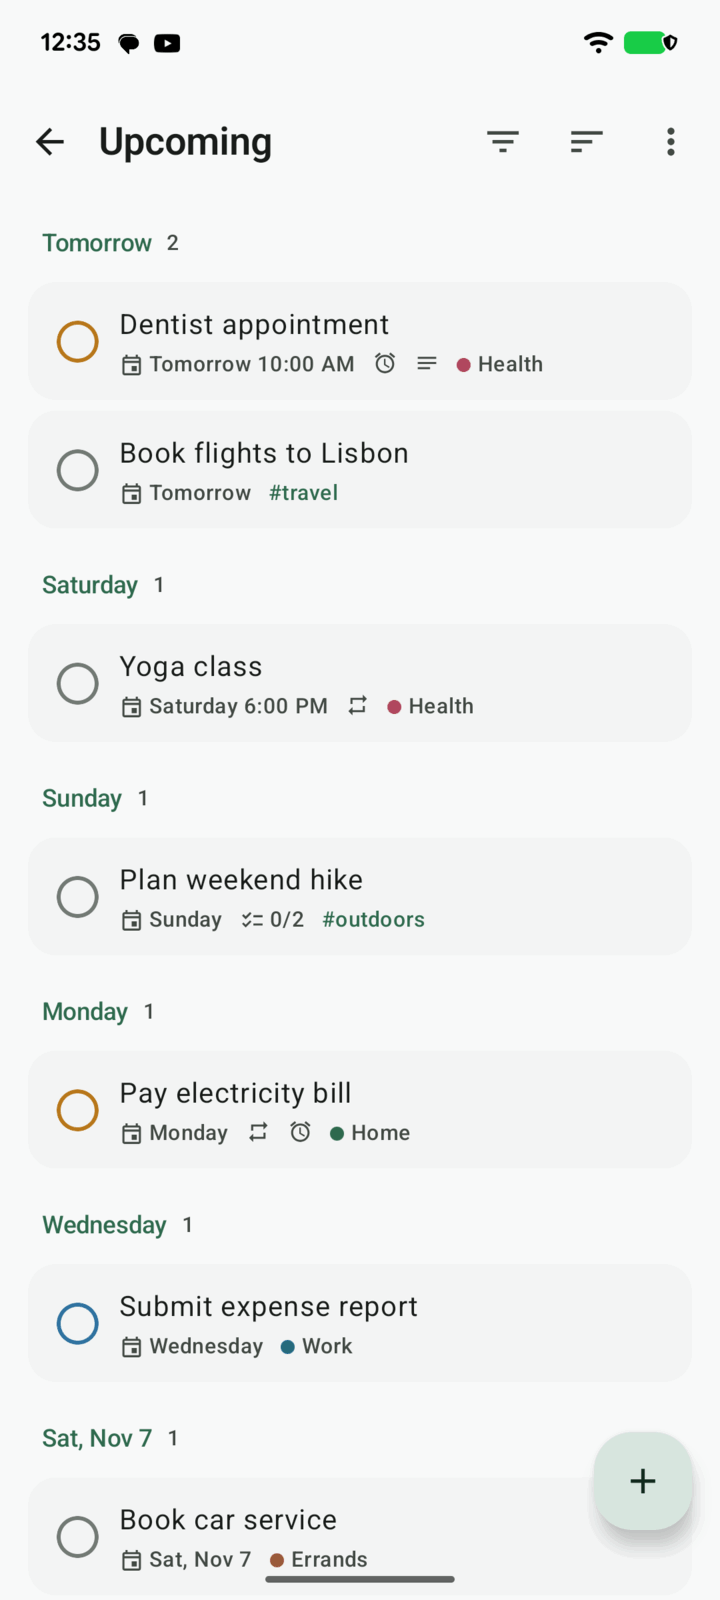
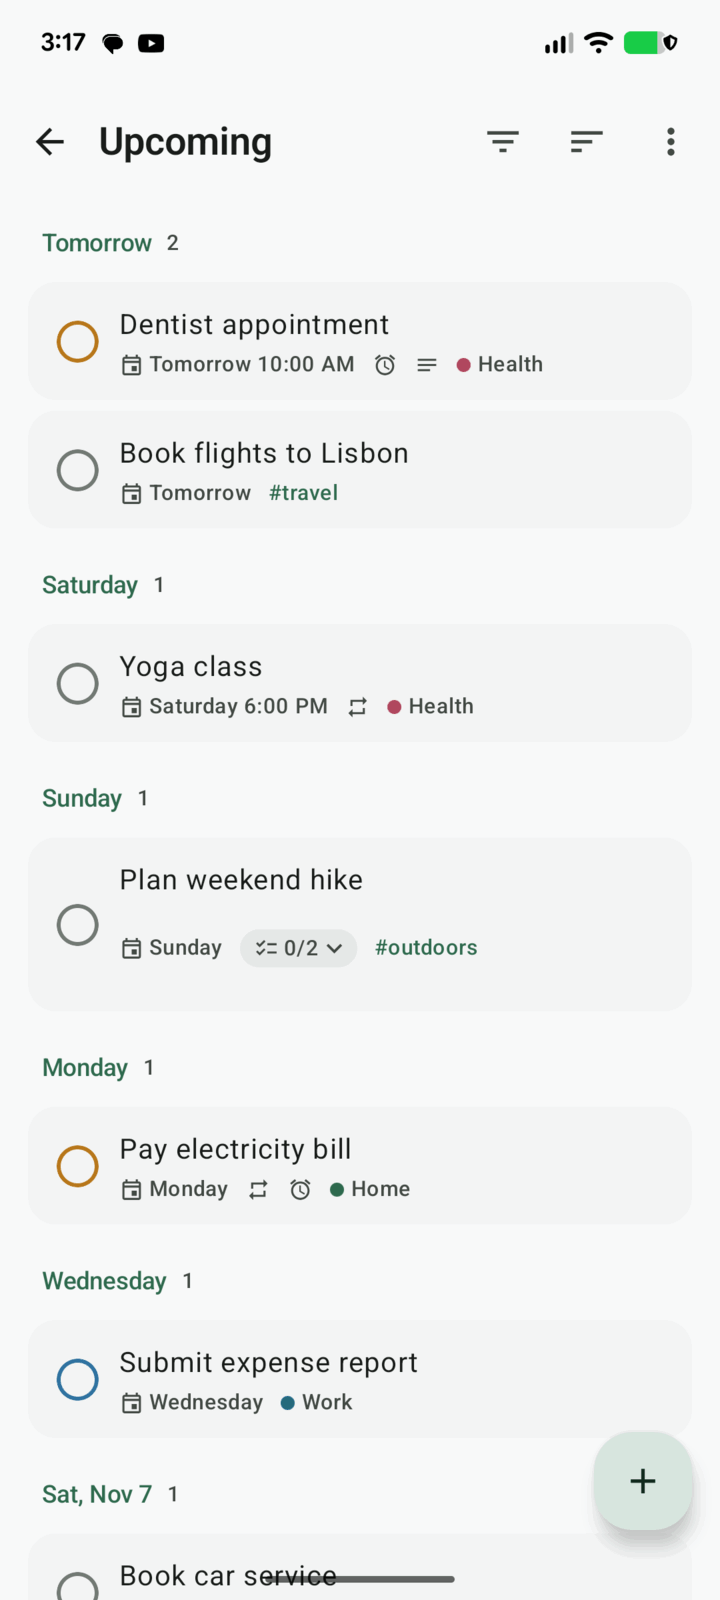
README, changelog and testing report for plans, subtasks, streaks, reset time and update check; new screenshots

diff --git a/docs/TESTING.md b/docs/TESTING.md
@@ -4,8 +4,8 @@
 
 | Suite | Command | Where | Result (2026-10-29) |
 | --- | --- | --- | --- |
-| JVM unit tests | `./gradlew :app:testDebugUnitTest` | `app/src/test` | 212 passed, 0 failed |
-| Instrumented tests | `./gradlew :app:connectedDebugAndroidTest` | `app/src/androidTest` | 42 passed, 0 failed (Pixel 6, Android 17) |
+| JVM unit tests | `./gradlew :app:testDebugUnitTest` | `app/src/test` | 268 passed, 0 failed |
+| Instrumented tests | `./gradlew :app:connectedDebugAndroidTest` | `app/src/androidTest` | 53 passed, 0 failed (Pixel 6, Android 17) |
 | Android Lint | `./gradlew :app:lintDebug` | — | 0 errors, 22 warnings (unused resources, plural suggestions, obsolete SDK checks) |
 | Offline check | `./gradlew :app:verifyOfflineManifestRelease` | build | passes: only `INTERNET` (update check); no network-state, Wi-Fi-state, broad-storage or advertising-ID permission |
 | Release verification | `scripts/verify-apk.sh` | CI | signature v2+, not debug-signed, application id, version, no forbidden permission |
@@ -72,6 +72,17 @@ something deleted moments earlier (database foreign-key violation); undo of a sh
 focus timer on a deleted task; a double tap completing two occurrences of a repeating task in the app; long-overdue
 repeating tasks not catching up past ~27 years; negative amounts losing their minus sign; navigation labels breaking
 mid-word at large font sizes.
+
+### New features, on the Pixel 6
+
+| Feature | Result |
+| --- | --- |
+| Database upgrade 1 → 2 on the phone's existing data | Upgraded in place; data kept (also covered by `MigrationTest`) |
+| Plans (this week / month / year) | Today Plans section, Plans view, editor “Plan for”, Quick Add “sometime next week” |
+| Day reset time 4:00 AM, phone time 1:59 AM (time zone switched briefly) | Today showed the previous day; back to Midnight showed the new day |
+| Streaks | Rows, editor history dots, Today routine nudge, routine widget, Insights |
+| Subtasks | Expand in Today and tick from the list; editor section, add several in a row |
+| Update check | Consent dialog; automatic check and “Check now” report “no release yet” (none published); popup and Download verified against another public repository's latest release in a temporary test build |
 
 ## Manual QA on a real device
 

diff --git a/CHANGELOG.md b/CHANGELOG.md
@@ -16,6 +16,22 @@ named `vMAJOR.MINOR.BUILD` (see [docs/RELEASING.md](docs/RELEASING.md)); the rel
   `api.github.com` at most once a day, nothing about you or your tasks is sent). The build and release checks still
   reject network-state, Wi-Fi-state, broad storage and advertising-ID permissions.
 
+## Unreleased
+
+### Added
+- Plans: tasks for a week, month or year, with a Plans view and a Today section (database version 2, migrated
+  automatically).
+- Subtasks inside every task: a Subtasks section in the editor and expandable subtasks in every list.
+- Streaks for routines and repeating tasks on Today, task rows, the editor, the routine widget and Insights.
+- Quick Add understands repeats (“every monday and thursday”, “every 3 days”, “monthly”) and plans (“this month”).
+- New day starts at: choose when “today” rolls over.
+
+### Fixed
+- Crashes when acting on a task, list or routine that had just been deleted (stale widgets, open screens, undo).
+- A fast double tap on a repeating task in the app could complete two occurrences.
+- Long-overdue repeating tasks now catch up in one step; negative amounts keep their minus sign; navigation labels
+  no longer break mid-word at large font sizes.
+
 ## 1.0 — first public release
 
 ### Added
